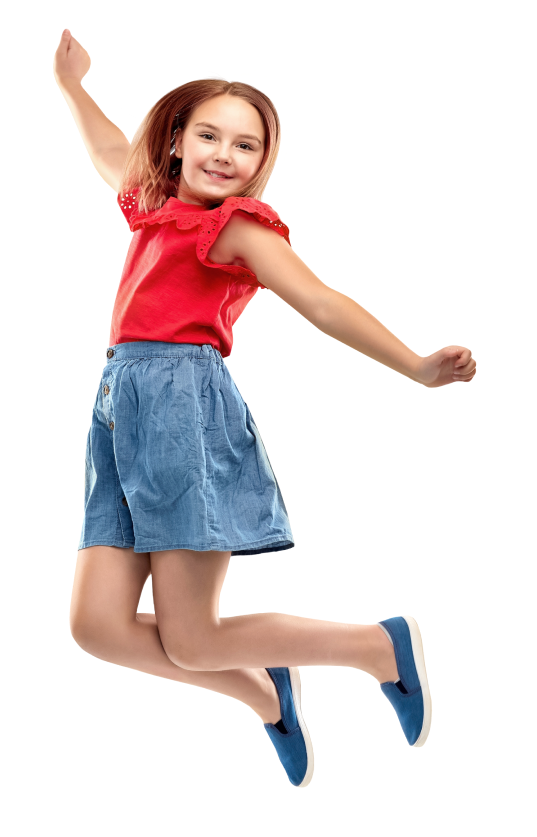
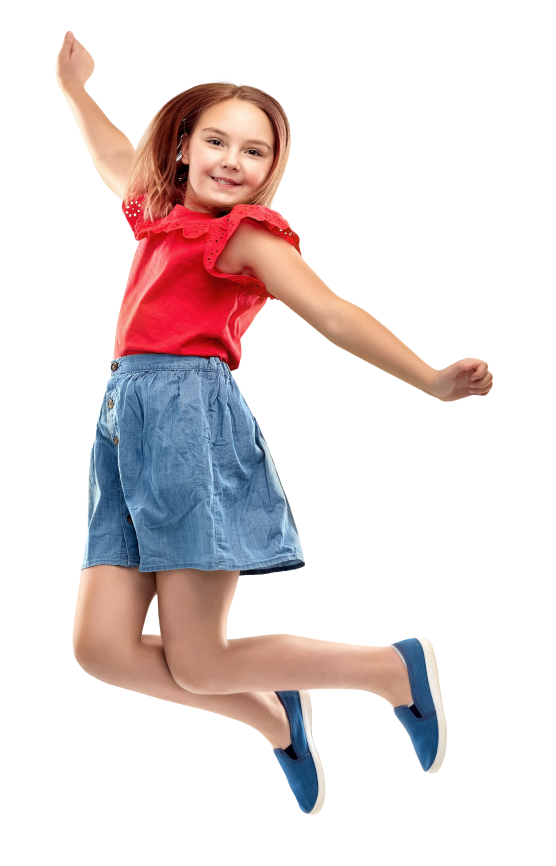
Правки по 11 версии: изменены блоки «С детьми занимаются педагоги и вожатые», подвал и иконки в «Дети отдыхают в безопасности».

diff --git a/css/style.css b/css/style.css
@@ -157,6 +157,7 @@ img
 .block_with_background.girl_jumping_wrapper
 {
     overflow-y: hidden;
+    background: url(../images/bg-footer.png) no-repeat bottom center;
 }
 
 .blue_spot
@@ -641,8 +642,7 @@ img
 /* Teachers */
 .teachers_section
 {
-    background: radial-gradient(106.82% 161.12% at 52.49% 19.11%, #FFAF25 0%, #FF9516 40.62%, #FF8A00 100%);
-    padding-top: 59px;
+    background: url('../images/bg-teachers.png') no-repeat bottom center;
     margin-bottom: 106px;
 }
 
@@ -658,45 +658,60 @@ img
     color: #fff;
 }
 
+.teachers_section .content_title
+{
+    position: absolute;
+    top: 152px;
+    left: 61px;
+    line-height: 37px;
+}
+
 .teachers_section .leader_description
 {
     position: absolute;
-    left: 21px;
-    top: 89px;
-    width: 210px;
+    top: 347px;
+    left: 61px;
+    width: 235px;
 }
 
 .teachers_section .leader_name
 {
     position: absolute;
-    left: 20px;
-    bottom: 30px;
+    left: 61px;
+    bottom: 32px;
 }
 
 .teachers_section .teacher_description
 {
     position: absolute;
-    right: -5px;
-    top: 89px;
+    right: 75px;
+    top: 347px;
     width: 212px;
 }
 
 .teachers_section .teacher_name
 {
     position: absolute;
-    right: -2px;
-    bottom: 30px;
+    width: 210px;
+    right: 77px;
+    bottom: 32px;
 }
 
 .teachers_section .content_wrapper
 {
     position: relative;
+    max-width: 1280px;
+    height: 721px;
+    padding: 0;
+    /* background: url('../images/bg-teachers.png') no-repeat -300px; */
 }
 
 .teachers_photo
 {
+    position: absolute;
+    bottom: 0;
     display: block;
-    margin: 38px auto 0;
+    margin: 0 348px;
     transform: translateX(-5px);
 }
 
@@ -717,7 +732,7 @@ img
 {
     display: flex;
     justify-content: space-between;
-    margin-top: 50px;
+    margin-top: 61px;
 }
 
 .safety_feature_title
@@ -750,28 +765,30 @@ img
 
 .mosquito_icon
 {
-    width: 72px;
-    height: 71px;
-    background: url('../images/icon-mosquito.svg') no-repeat;
-    margin-bottom: 24px;
+    width: 132px;
+    height: 131px;
+    background: url('../images/icon-mosquito.png') no-repeat;
+    margin-bottom: 18px;
     margin-left: -4px;
 }
 
 .first_aid_icon
 {
-    width: 88px;
-    height: 69px;
-    background: url('../images/icon-first-aid-post.svg') no-repeat;
-    margin-bottom: 25px;
+    width: 129px;
+    height: 130px;
+    background: url('../images/icon-first-aid-post.png') no-repeat;
+    margin-top: 1px;
+    margin-bottom: 18px;
     margin-left: -7px;
 }
 
 .guard_icon
 {
-    width: 88px;
-    height: 57px;
-    background: url('../images/icon-guard.svg') no-repeat;
-    margin: 12px 0 25px;
+    width: 135px;
+    height: 129px;
+    background: url('../images/icon-guard.png') no-repeat;
+    margin-top: 2px;
+    margin-bottom: 18px;
     margin-left: -2px;
 }
 
@@ -863,7 +880,7 @@ img
 /* FAQ */
 .faq_section
 {
-    margin-bottom: 108px;
+    margin-bottom: 290px;
 }
 
 .questions_and_docs
@@ -997,9 +1014,9 @@ img
 .order_section
 {
     max-width: 880px;
-    margin: 0 auto 100px;
-    padding: 43px 39px 40px;
-    background: linear-gradient(139.75deg, #FF8A00 35.21%, #FFAF25 89.67%);
+    margin: 0 auto 227px;
+    padding: 0 39px;
+    /* background: linear-gradient(139.75deg, #FF8A00 35.21%, #FFAF25 89.67%); */
     position: relative;
 }
 
@@ -1023,7 +1040,7 @@ img
 {
     list-style: none;
     max-width: 325px;
-    margin-bottom: 83px;
+    margin-bottom: 69px;
 }
 
 .order_section .order_features_list li
@@ -1147,8 +1164,8 @@ img
 .form_image
 {
     position: absolute;
-    top: -109px;
-    right: -87px;
+    top: -212px;
+    right: -127px;
 }
 
 /* Footer */
@@ -1156,6 +1173,26 @@ img
 {
     display: flex;
     padding: 19px 20px 50px;
+}
+
+.footer_section *
+{
+    color: white;
+}
+
+.footer_section .link
+{
+    text-decoration: none;
+    border-bottom: 1px solid rgba(255, 255, 255, 0.4);
+}
+
+.horizontal_line
+{
+    position: absolute;
+    width: 800px;
+    height: 1px;
+    margin-top: -19px;
+    background-color: white;
 }
 
 .phones_wrapper
@@ -1167,7 +1204,7 @@ img
 .developers
 {
     width: 299px;
-    margin-right: 20px;
+    margin-right: 148px;
 }
 
 .copyright,
@@ -1175,7 +1212,6 @@ img
 {
     font-size: 14px;
     line-height: 19px;
-    color: #0072DB;
     margin: 0 0 3px;
 }
 
@@ -1206,7 +1242,6 @@ img
 {
     font-size: 14px;
     line-height: 19px;
-    color: #0072DB;
 }
 
 .vk_link

diff --git a/index.html b/index.html
@@ -490,7 +490,13 @@
 <div class="teachers_section">
   <div class="content_wrapper">
     <h3 class="content_title">
-      <span class="nobr">С детьми</span> занимаются педагоги <span class="nobr">и вожатые</span>
+      <span class="nobr">С детьми</span>
+      <br>
+      занимаются
+      <br>
+      педагоги
+      <br>
+      <span class="nobr">и вожатые</span>
     </h3>
     <div class="leader_description">
       <p class="photo_caption"><span class="photo_caption_title"><span class="nobr">Вожатый —</span>
@@ -804,14 +810,20 @@
     <p class="form_notice">
       Перезвоним <span class="nobr">в рабочее</span> время <span class="nobr">с 9</span> <span class="nobr">до 18</span>
     </p>
-    <img src="images/jumping-girl.png" alt="" class="form_image">
+    <img
+      src="images/jumping-girl.png"
+      srcset="images/jumping-girl.png 1x, images/jumping-girl-2x.png 2x"
+      class="form_image"
+      alt=""
+    >
     <div class="jumping_girl_shadow"></div>
   </div>
 
 
   <div class="content_wrapper footer_section">
+    <div class="horizontal_line"></div>
     <div class="phones_wrapper">
-      <a href="http://dtdim.org/" target="_blank" class="copyright not_underlined">
+      <a href="http://dtdim.org/" target="_blank" class="copyright link">
         Проект Дворца творчества детей
         <span class="nobr">и молодёжи</span> Республики <span class="nobr">Марий Эл</span>
       </a>
@@ -830,13 +842,17 @@
         <br>
         Разработчик: Алексей Коптелин
       </p>
-      <a href="https://bureau.ru/school/designers/26aug2019/" target="_blank" class="bureau not_underlined">
+      <a href="https://bureau.ru/school/designers/26aug2019/" target="_blank" class="bureau link">
         Школа Бюро Горбунова, 2020 год
       </a>
     </div>
     <div class="socials">
       <a href="https://vk.com/raduzniy_dtdim12" target="_blank" class="vk_link">
-        <img src="images/icon-vk.png" alt="">
+        <img
+          src="images/icon-vk.png"
+          srcset="images/icon-vk.png 1x, images/icon-vk-2x.png 2x"
+          alt=""
+        >
       </a>
     </div>
   </div>
